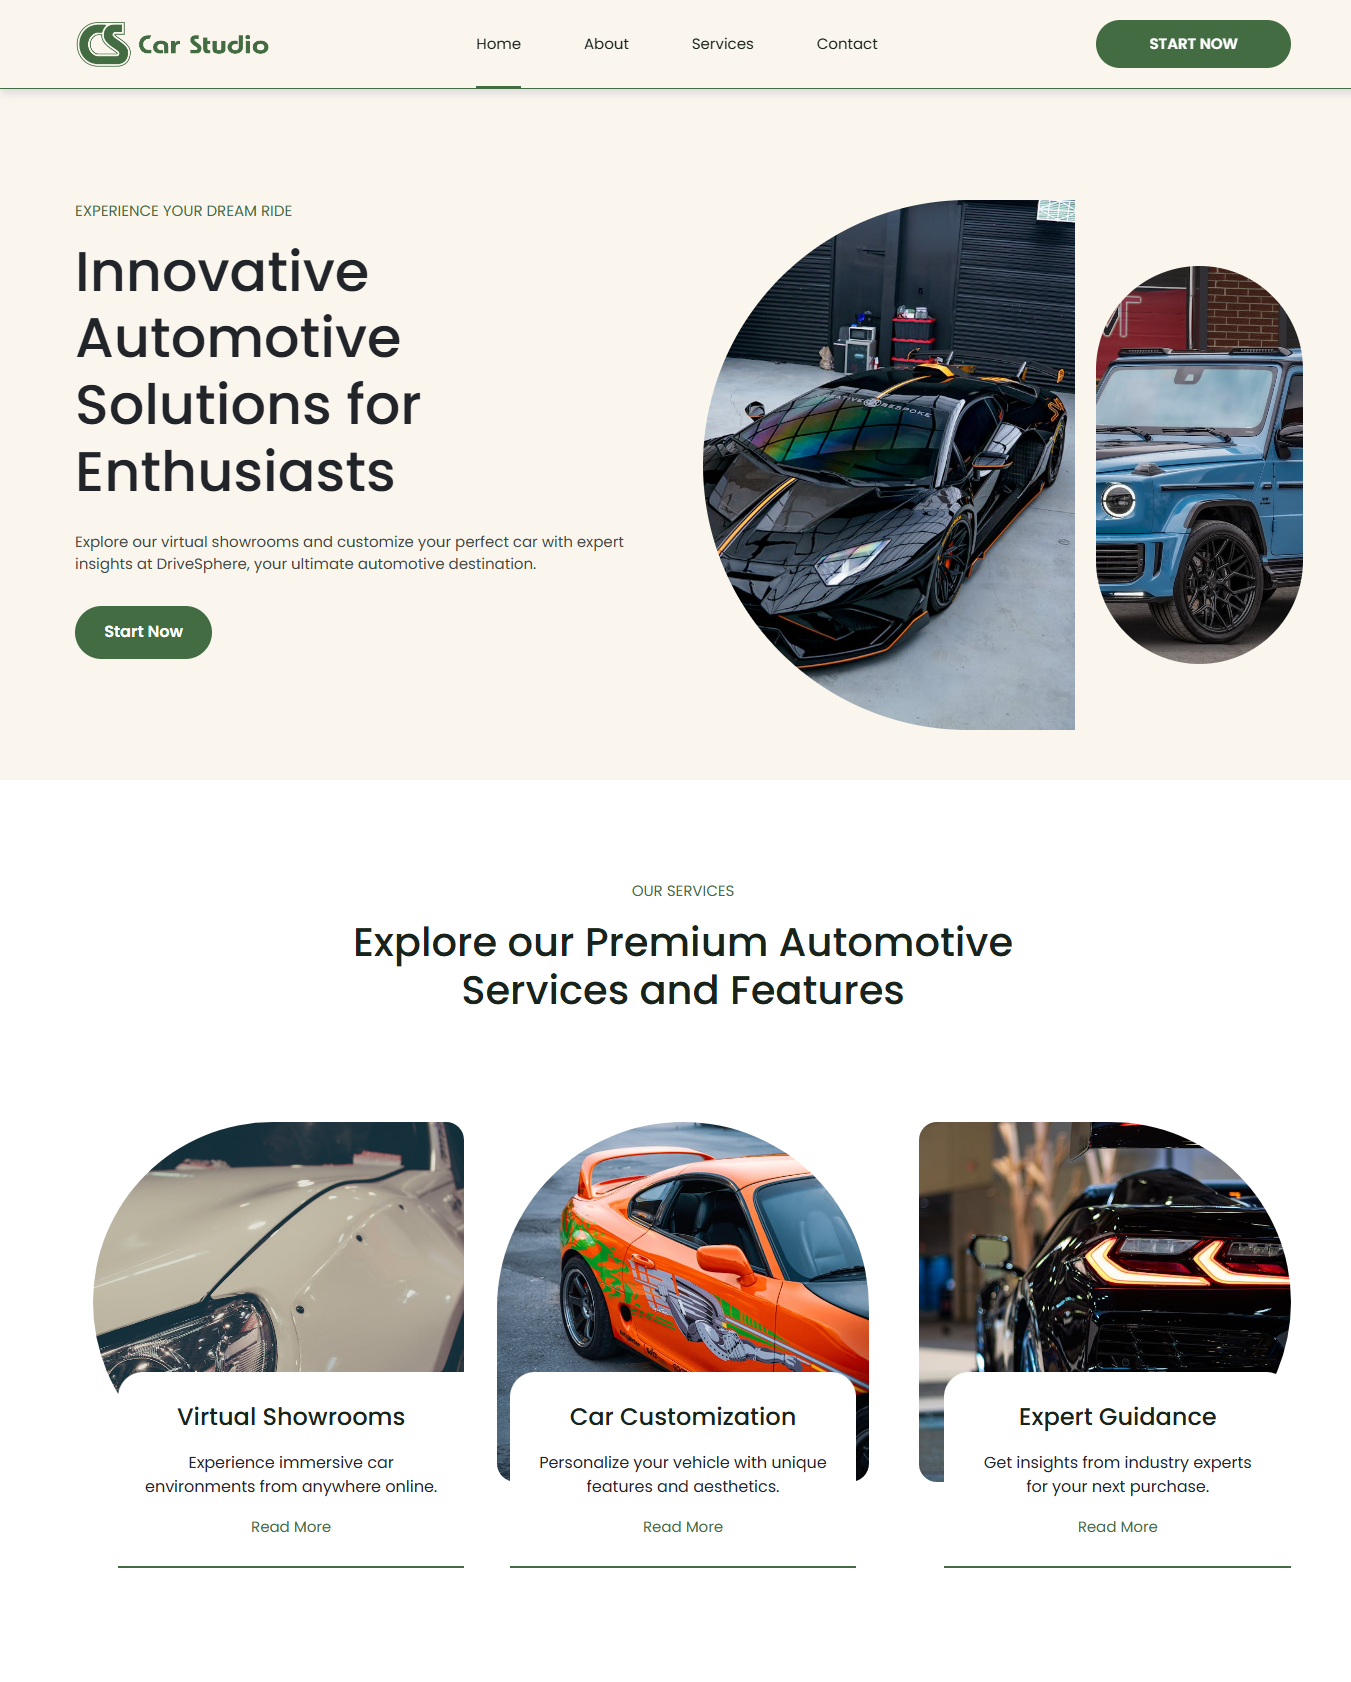
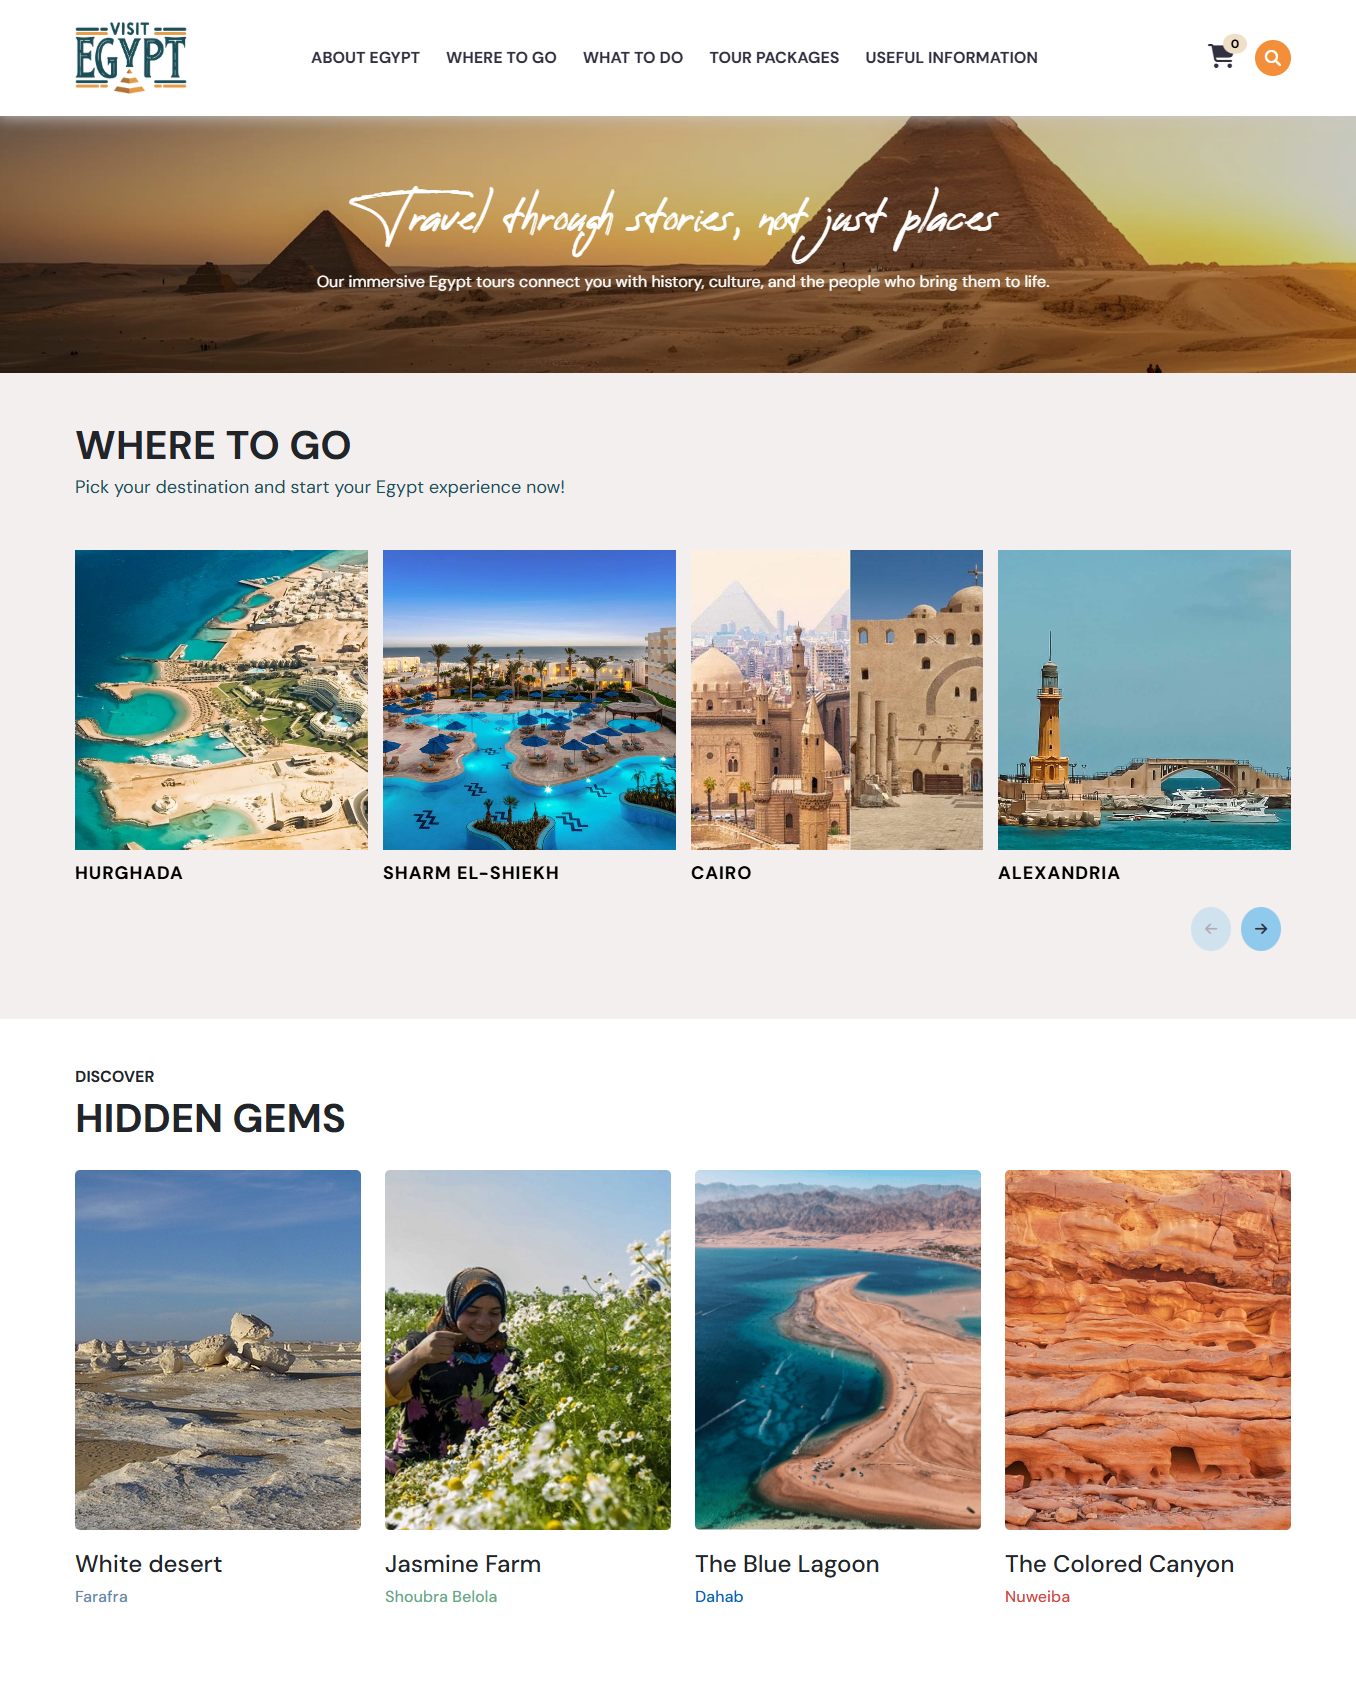
add portfolio

diff --git a/assets/css/style.css b/assets/css/style.css
@@ -7,10 +7,12 @@
   --main-color: #121212;
   --black-one: #1E1E1E;
 }
-::selection{
+
+::selection {
   background-color: var(--yellow);
   color: #000;
 }
+
 html {
   scroll-behavior: smooth;
 }
@@ -19,6 +21,8 @@ html {
   margin: 0;
   padding: 0;
   box-sizing: border-box;
+  scrollbar-width: thin;
+  scrollbar-color: var(--yellow) black;
 }
 
 p {
@@ -145,6 +149,7 @@ header .container .navbar .container-fluid .navbar-brand {
   background-repeat: no-repeat;
   background-attachment: fixed;
   width: 100%;
+  overflow: hidden;
 }
 
 .hero-section .overlay {
@@ -187,6 +192,15 @@ header .container .navbar .container-fluid .navbar-brand {
   font-family: var(--main-font);
   font-size: 2.3rem;
   font-weight: 800;
+  text-shadow:
+    1px 1px 0 rgba(255, 215, 120, 0.7),
+    /* highlight */
+    2px 2px 0 rgba(210, 170, 90, 0.9),
+    /* mid depth */
+    3px 3px 0 rgba(160, 120, 60, 0.9),
+    /* deep layer */
+    4px 4px 6px rgba(0, 0, 0, 0.55);
+  /* soft shadow */
 }
 
 .hero-section .col-lg-6:first-child h1 {
@@ -257,6 +271,27 @@ header .container .navbar .container-fluid .navbar-brand {
   color: white;
 }
 
+.hero-section .col-lg-6:last-child {
+  position: relative;
+  margin-top: 20px;
+}
+
+.hero-section .col-lg-6:last-child img:first-child {
+  position: absolute;
+  z-index: -1;
+  animation: cycle 10s linear infinite;
+}
+
+@keyframes cycle {
+  from {
+    transform: rotate(0deg);
+  }
+
+  to {
+    transform: rotate(360deg);
+  }
+}
+
 .hero-section .col-lg-6:last-child img {
   height: auto;
   width: 92%;
@@ -324,10 +359,36 @@ header .container .navbar .container-fluid .navbar-brand {
   position: absolute;
   content: '';
   background-color: var(--yellow);
-  width: 40px;
+  width: 80px;
   height: 4px;
   top: -10px;
   border-radius: 3px;
+}
+
+#about h1::before {
+  content: "";
+  position: absolute;
+  top: -13px;
+  left: 50%;
+  width: 10px;
+  height: 10px;
+  border-radius: 50%;
+  background: var(--yellow);
+  animation: moveDot 4s ease-in-out infinite;
+}
+
+@keyframes moveDot {
+  0% {
+    transform: translateX(-40px);
+  }
+
+  50% {
+    transform: translateX(30px);
+  }
+
+  100% {
+    transform: translateX(-40px);
+  }
 }
 
 #about .container .col-lg-4 {
@@ -399,10 +460,36 @@ header .container .navbar .container-fluid .navbar-brand {
   position: absolute;
   content: '';
   background-color: var(--yellow);
-  width: 40px;
+  width: 80px;
   height: 4px;
   top: -10px;
   border-radius: 3px;
+}
+
+#certificates h1::before {
+  content: "";
+  position: absolute;
+  top: -13px;
+  left: 50%;
+  width: 10px;
+  height: 10px;
+  border-radius: 50%;
+  background: var(--yellow);
+  animation: moveDot 4s ease-in-out infinite;
+}
+
+@keyframes moveDot {
+  0% {
+    transform: translateX(-40px);
+  }
+
+  50% {
+    transform: translateX(30px);
+  }
+
+  100% {
+    transform: translateX(-40px);
+  }
 }
 
 #certificates .container .col-lg-4 {
@@ -440,15 +527,17 @@ header .container .navbar .container-fluid .navbar-brand {
   border: var(--yellow) solid 3px;
 }
 
-#certificates .container .ele .content a{
-  color: white; 
+#certificates .container .ele .content a {
+  color: white;
   font-weight: 600;
   transition: all 0.6s ease;
 }
-#certificates .container .ele .content a:hover{
-  color: var(--yellow); 
+
+#certificates .container .ele .content a:hover {
+  color: var(--yellow);
   text-decoration: none;
 }
+
 #certificates .container .ele.ele-e .content {
   background-color: var(--main-color);
 }
@@ -485,10 +574,36 @@ header .container .navbar .container-fluid .navbar-brand {
   position: absolute;
   content: '';
   background-color: var(--yellow);
-  width: 40px;
+  width: 80px;
   height: 4px;
   top: -10px;
   border-radius: 3px;
+}
+
+#skills h1::before {
+  content: "";
+  position: absolute;
+  top: -13px;
+  left: 50%;
+  width: 10px;
+  height: 10px;
+  border-radius: 50%;
+  background: var(--yellow);
+  animation: moveDot 4s ease-in-out infinite;
+}
+
+@keyframes moveDot {
+  0% {
+    transform: translateX(-40px);
+  }
+
+  50% {
+    transform: translateX(30px);
+  }
+
+  100% {
+    transform: translateX(-40px);
+  }
 }
 
 #skills .container .ele .content img {
@@ -528,15 +643,42 @@ header .container .navbar .container-fluid .navbar-brand {
   position: absolute;
   content: '';
   background-color: var(--yellow);
-  width: 40px;
+  width: 80px;
   height: 4px;
   top: -10px;
   border-radius: 3px;
 }
 
+#projects h1::before {
+  content: "";
+  position: absolute;
+  top: -13px;
+  left: 50%;
+  width: 10px;
+  height: 10px;
+  border-radius: 50%;
+  background: var(--yellow);
+  animation: moveDot 4s ease-in-out infinite;
+}
+
+@keyframes moveDot {
+  0% {
+    transform: translateX(-40px);
+  }
+
+  50% {
+    transform: translateX(30px);
+  }
+
+  100% {
+    transform: translateX(-40px);
+  }
+}
+
 #projects>p {
   margin-bottom: 50px;
 }
+
 #projects .container .swiper-wrapper .swiper-slide {
   margin-top: 40px;
 }
@@ -614,6 +756,7 @@ header .container .navbar .container-fluid .navbar-brand {
   color: var(--yellow);
   border: 1px var(--yellow) solid;
 }
+
 .swiper {
   padding: 35px 0 !important;
   padding-bottom: 0 !important;
@@ -737,19 +880,48 @@ header .container .navbar .container-fluid .navbar-brand {
   position: absolute;
   content: '';
   background-color: var(--yellow);
-  width: 40px;
+  width: 80px;
   height: 4px;
   top: -10px;
   border-radius: 3px;
 }
+
+#contact h1::before {
+  content: "";
+  position: absolute;
+  top: -13px;
+  left: 50%;
+  width: 10px;
+  height: 10px;
+  border-radius: 50%;
+  background: var(--yellow);
+  animation: moveDot 4s ease-in-out infinite;
+}
+
+@keyframes moveDot {
+  0% {
+    transform: translateX(-40px);
+  }
+
+  50% {
+    transform: translateX(30px);
+  }
+
+  100% {
+    transform: translateX(-40px);
+  }
+}
+
 #contact .ele {
   margin-top: 50px;
 }
-#contact .ele .content{
+
+#contact .ele .content {
   display: flex;
   justify-content: center;
   align-items: center;
 }
+
 #contact .ele #contactForm {
   display: flex;
   flex-direction: column;
@@ -804,7 +976,7 @@ header .container .navbar .container-fluid .navbar-brand {
   border: 1px var(--yellow) solid;
 }
 
- footer{
+footer {
   background-image: url(../images/backgrund.webp);
   background-position: center;
   background-repeat: no-repeat;
@@ -816,8 +988,9 @@ header .container .navbar .container-fluid .navbar-brand {
   align-items: center;
   justify-content: center;
   position: relative;
- }
- footer a{
+}
+
+footer a {
   text-decoration: none;
   font-family: var(--main-font);
   color: var(--yellow);
@@ -831,15 +1004,20 @@ header .container .navbar .container-fluid .navbar-brand {
   transition: all 0.5s ease;
   position: relative;
   z-index: 2;
- }
-  footer a:hover{
-      color: white;
+}
 
-  }
-  footer .overlay{
-    position: absolute;
+footer p {
+  margin: 0 10px;
+}
+
+footer a:hover {
+  color: white;
+}
+
+footer .overlay {
+  position: absolute;
   width: 100%;
   height: 100%;
   background-color: rgba(0, 0, 0, 0.7);
   z-index: 1;
-  }
+}

diff --git a/index.html b/index.html
@@ -115,6 +115,7 @@
           </div>
         </div>
         <div class="col-lg-6 d-flex" style="justify-content: center;">
+          <img class="cycle" src="./assets/images/cercle-shape.47fe8b0d.png" alt="">
           <img src="./assets/images/avatar.png" />
         </div>
       </div>
@@ -310,11 +311,11 @@
                 <h3>Business Website Project</h3>
               </div>
               <div class="swiper-slide">
-                <img src="./assets/images/visit-egypt-website.vercel.app_.png" class="zoom-img" alt="project image">
+                <img src="./assets/images/proj3.png" class="zoom-img" alt="project image">
                 <h3>Visit Egypt Website</h3>
               </div>
               <div class="swiper-slide">
-                <img src="./assets/images/proj4.jpeg" class="zoom-img" alt="project image">
+                <img src="./assets/images/proj4.png" class="zoom-img" alt="project image">
                 <h3>News API Web App</h3>
               </div>
             </div>
